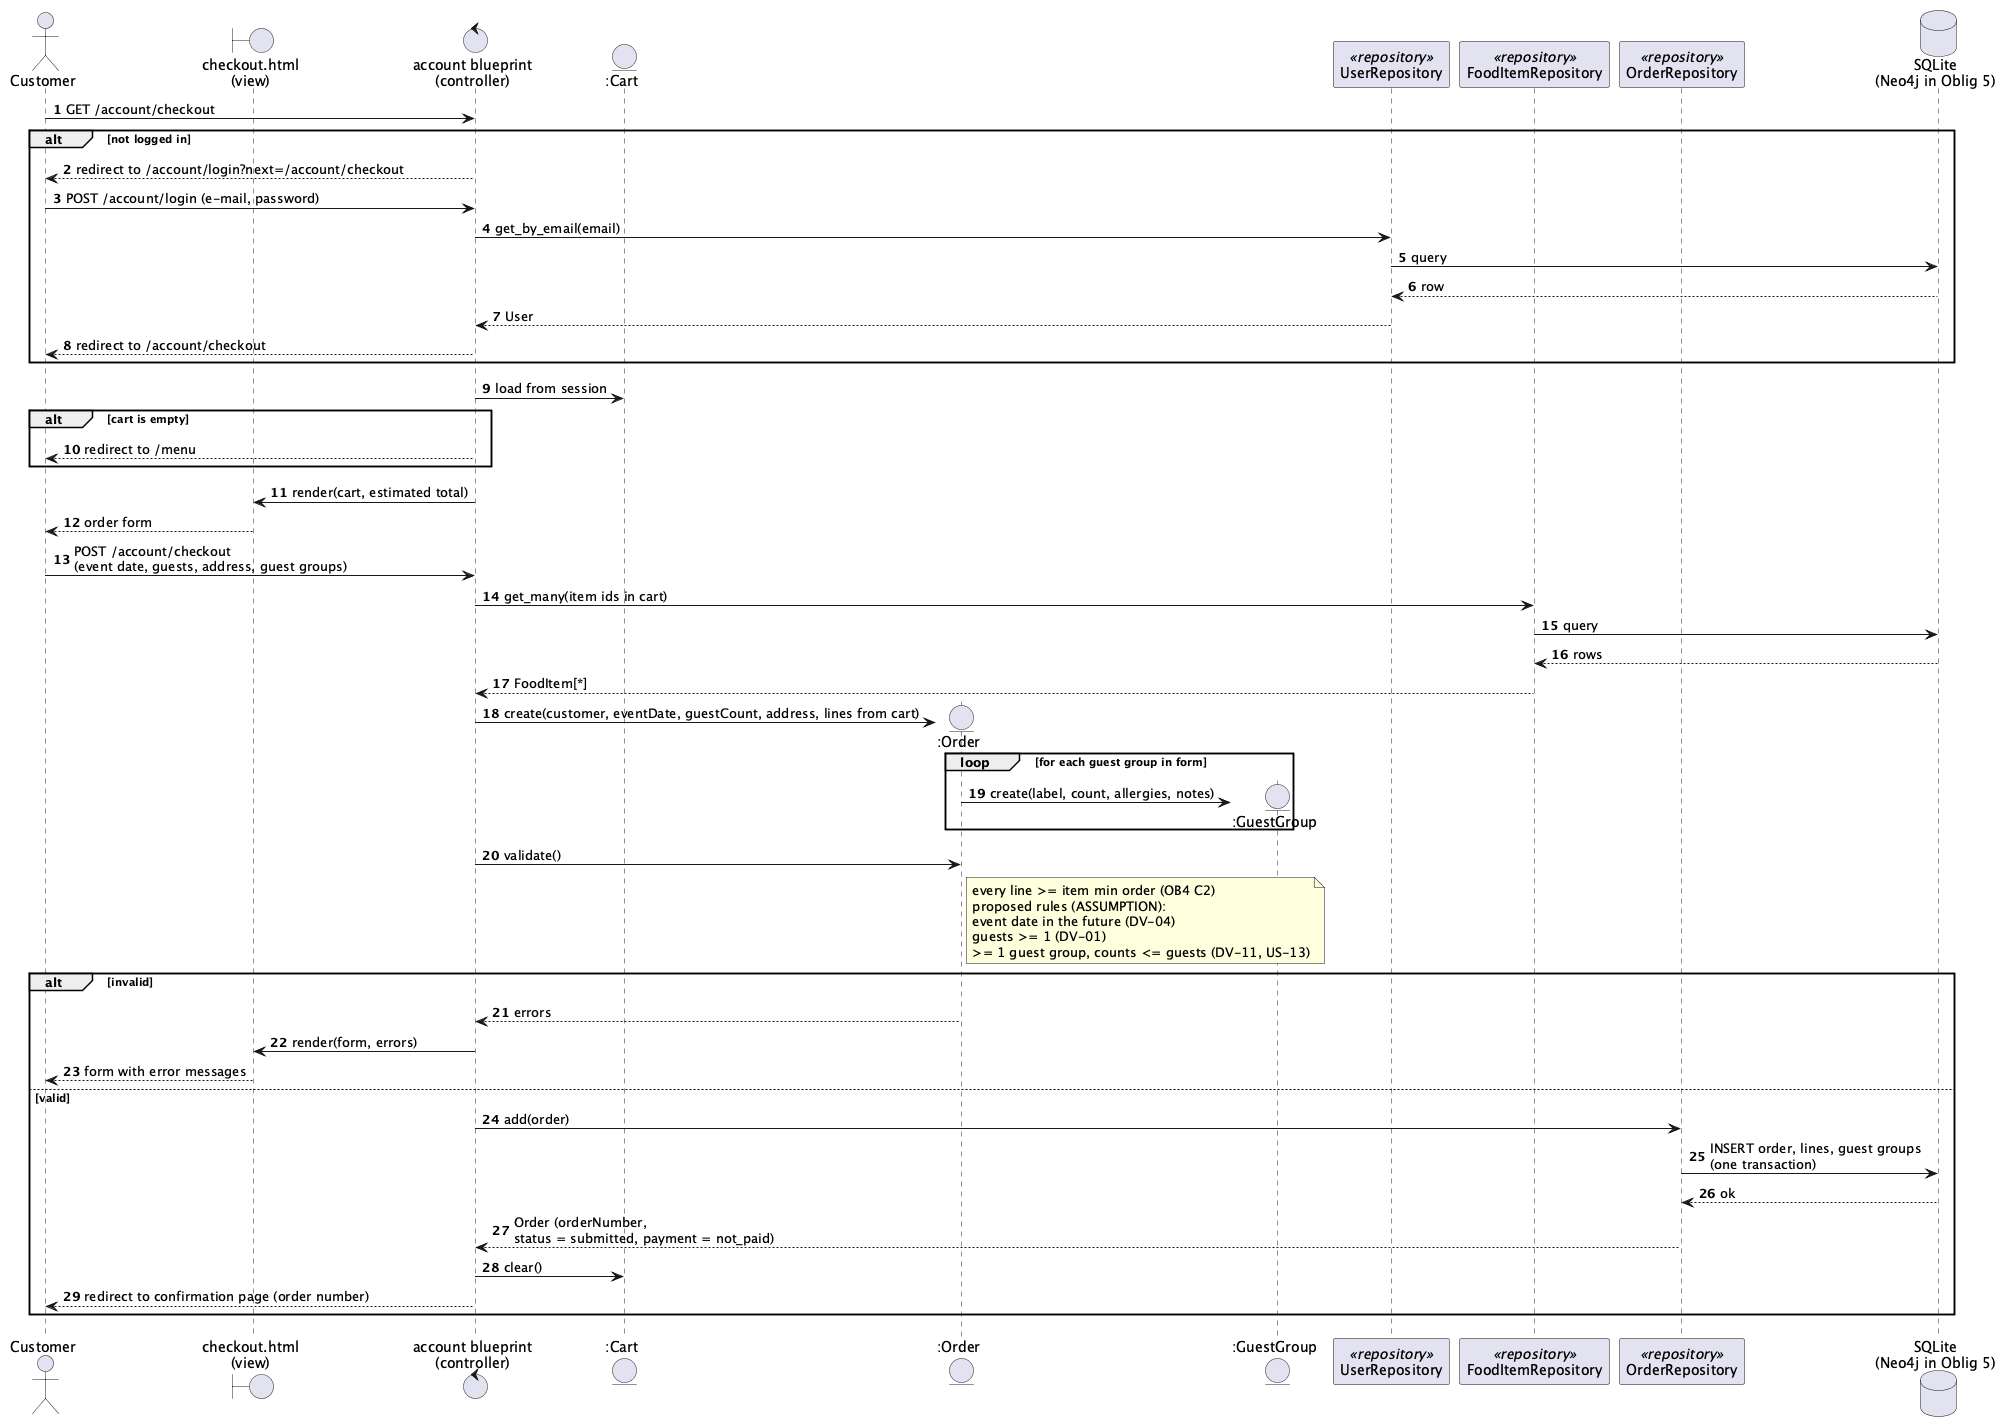
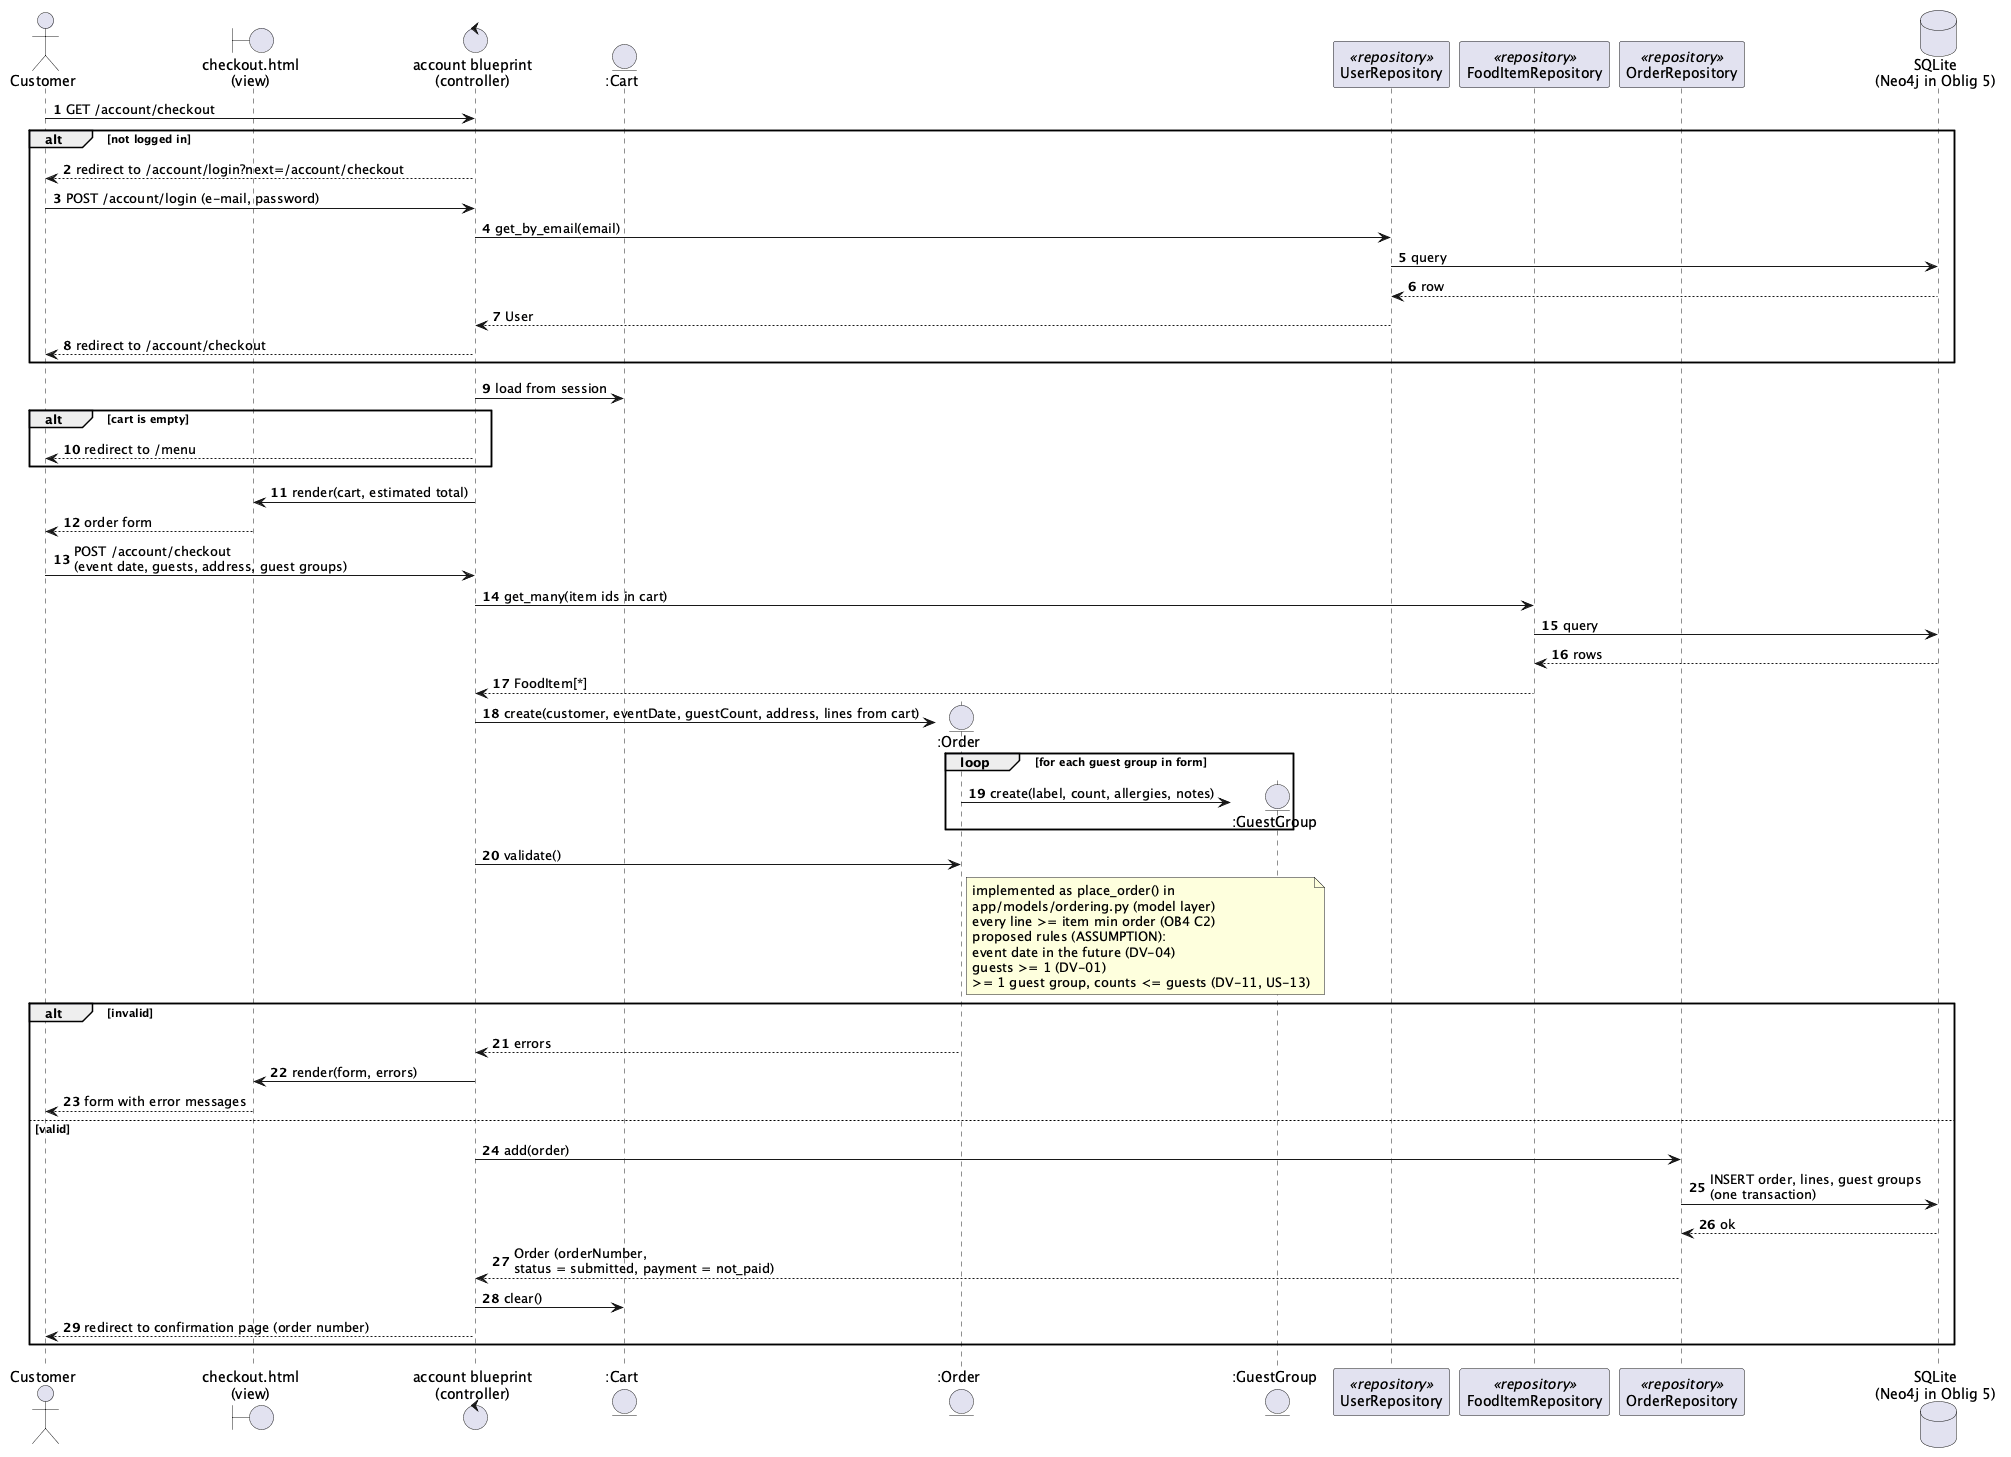
Document checkout and note place_order in the sequence diagram

diff --git a/README.md b/README.md
@@ -46,6 +46,8 @@ The start page is the **menu** (`/menu`): published food items as cards grouped 
 
 Each card has an **Add to cart** form. The **cart** (`/cart`) lists the items with price × portions and an estimated total; you can change portions or remove items. Quantities below an item's minimum order are rejected with a message. The cart is kept in your browser session, also when you log in.
 
+From the cart, **Continue to order** (`/account/checkout`) asks you to log in or register and then shows the order form: event date, number of guests, delivery address and one or more guest groups with allergies and dietary notes (no guest names). There is no payment step; the order is saved as *submitted* / *not paid* and you see a confirmation with the order number.
+
 Log in at http://127.0.0.1:5000/account/login with a demo account (see above), or register a new customer account at `/account/register`. The admin panel (`/admin/`) is only available to the admin account; customers get "Access denied".
 
 As admin you can manage the food items at `/admin/food`: add, edit, publish/unpublish and delete (items that are part of an order can only be unpublished).
